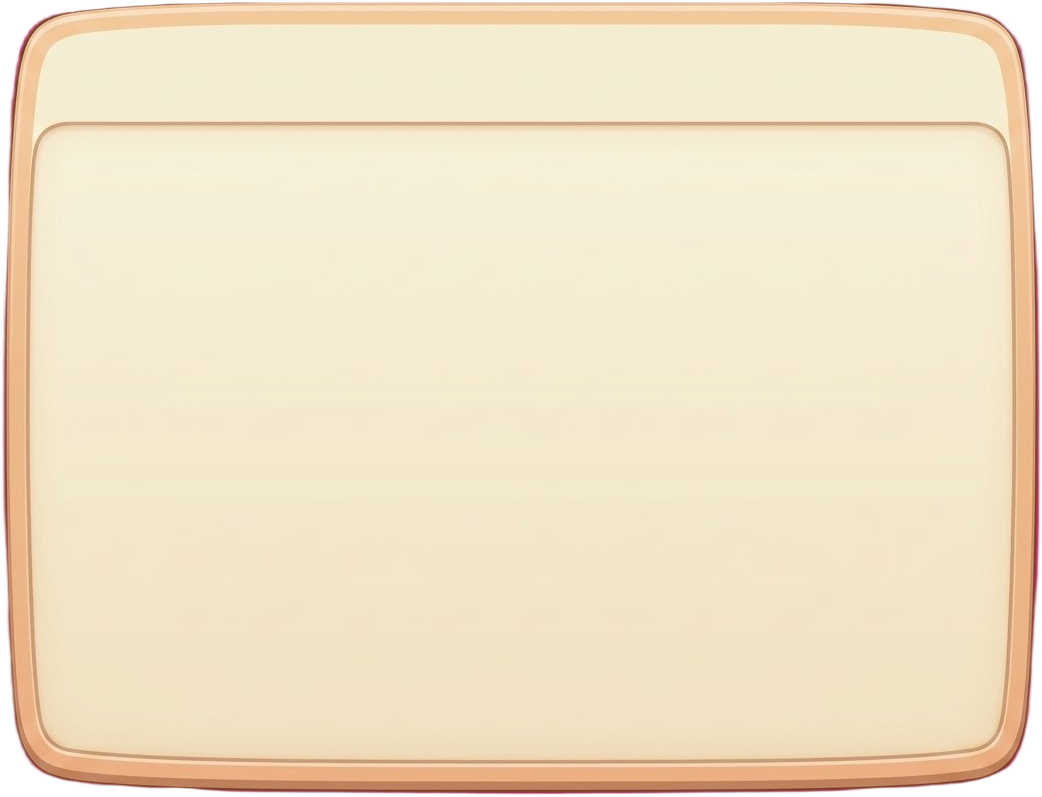
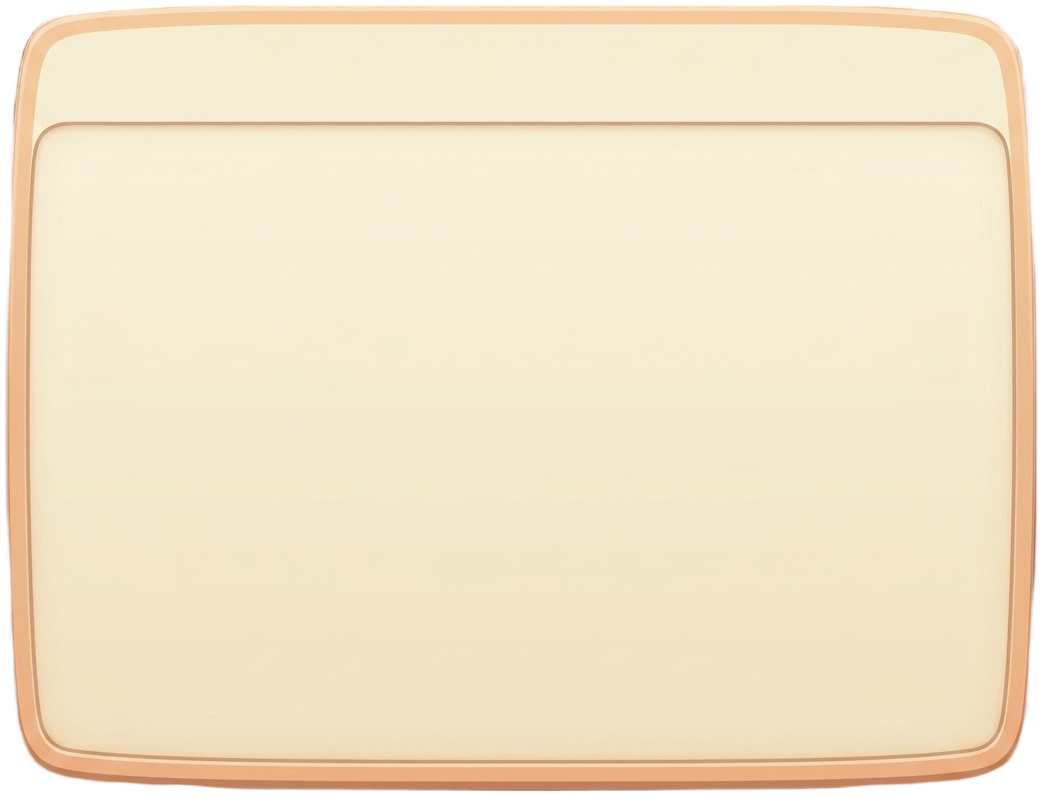
Ночь 2: UI-20 закрыта, задача по контрасту нулей склада

diff --git a/tools/ikonka_rembg.py b/tools/ikonka_rembg.py
@@ -19,7 +19,7 @@ from PIL import Image, ImageFilter
 from rembg import remove, new_session
 
 
-def obrabotat(put, out, sess, razmer, cvet, dolya, obvodka, pole_dolya, kvadrat):
+def obrabotat(put, out, sess, razmer, cvet, dolya, obvodka, pole_dolya, kvadrat, erozia=0):
     im = Image.open(put).convert("RGB")
     # у сети берём только маску: под альфой 0 она обнуляет и цвет, а полости
     # силуэта нужно возвращать исходным цветом
@@ -37,6 +37,11 @@ def obrabotat(put, out, sess, razmer, cvet, dolya, obvodka, pole_dolya, kvadrat)
         holst = holst.resize((razmer, razmer), Image.LANCZOS)
     else:
         holst = rgba
+    if erozia > 0:
+        # сжать альфу на N px: убирает розовый/зелёный ореол JPEG-кромки от фона
+        # генерации (у элементов интерфейса на сплошном фоне заметен как линия)
+        alpha_e = holst.getchannel("A").filter(ImageFilter.MinFilter(erozia * 2 + 1))
+        holst.putalpha(alpha_e)
     if obvodka:
         t = max(1, int(round(holst.width * dolya)))
         alpha = holst.getchannel("A")
@@ -55,6 +60,7 @@ if __name__ == "__main__":
     ap.add_argument("--razmer", type=int, default=512); ap.add_argument("--cvet", default="FBEBBA")
     ap.add_argument("--tolshchina", type=float, default=0.021)
     ap.add_argument("--bez-obvodki", action="store_true"); ap.add_argument("--ne-kvadrat", action="store_true")
+    ap.add_argument("--erozia", type=int, default=0, help="сжать альфу на N px (ореол кромки у элементов интерфейса)")
     ap.add_argument("--pole", type=float, default=0.08); ap.add_argument("--model", default="u2net", help="u2net держит белые части предметов (хлопок), birefnet-general-lite чище по кромке для элементов интерфейса")
     a = ap.parse_args()
     os.makedirs(a.out, exist_ok=True)
@@ -63,4 +69,4 @@ if __name__ == "__main__":
           if f.lower().endswith((".png", ".jpg", ".jpeg"))]
     for f in fs:
         obrabotat(f, os.path.join(a.out, os.path.splitext(os.path.basename(f))[0] + ".png"), sess,
-                  a.razmer, a.cvet, a.tolshchina, not a.bez_obvodki, a.pole, not a.ne_kvadrat)
+                  a.razmer, a.cvet, a.tolshchina, not a.bez_obvodki, a.pole, not a.ne_kvadrat, a.erozia)

diff --git a/loop/ui/OTCHET-nochi-2.md b/loop/ui/OTCHET-nochi-2.md
@@ -13,3 +13,12 @@
 - Ученик: 7 кадров амбара Township в `loop/ui/referensy-sklad/` + `NABLYUDENIYA.md`. Подтверждено: ячеек нет, число голым текстом под иконкой, ёмкость текстовой пилюлей без бара, кнопка апгрейда зелёная компактная, вкладки — пиктограммы без подписей (у нас пока текст: значков категорий нет). Заказчик прислал panel-sklad, pole-sklad, vkladka-aktivnaya — вырезаны, в `Assets/UI/Elementy/`; программисту ушло ТЗ на перестройку (кадр `noch2-sklad-3.png`).
 - Спека тапа по зданию (`wiki/saas/projects/mars-colony/spec-tap-po-zdaniyu.md`): механика уже реализована (VyborZdaniy, KonturZdaniya, ZhivoyInterfeys, BuildingClickTarget) — контур циан 2 px обратным корпусом, плашка процедурный Vizor 52 px. Дыры: блокировка при открытом складе, повторный тап, клэмп у края, анимация, кегль 24. Строка 2 промпта переписана: проверить кликом, довести на элементах заказчика в тёплом языке.
 - План анимации шаттла (`loop/ui/plan-animatsii-shattla.md`, mars-juice): фазы, кривые, пыль, дрожь камеры, триггер, проверка тремя кадрами через `AnimationClip.SampleAnimation` в Edit Mode; два допущения помечены (знак вектора вглубь кадра, перевод 6 px в метры) — проверять тестовым кадром до кода.
+
+## Виток 1, попытка 2 — склад на элементах заказчика (`noch2-sklad-3.png`)
+- Перестроен по референсу амбара: panel-sklad, вкладки, pole-sklad, 17 товаров без ячеек (иконка 84 + число), «Ёмкость: 45 / 50», кнопка «РАСШИРИТЬ» (knopka-a), крест на углу, скрим 0.72 линейный (=40% падения яркости в sRGB-кадре). Все три ряда видны.
+- Метрика: крем в рамке 120,120,1360,740 — 61.1% (порог ≥35) — дошла. Ореол вырезки вокруг поля (645 розовых px) снят эрозией альфы 3 px в `ikonka_rembg --erozia`; после пересборки 0 px.
+- Баг по дороге: ключ кэша `ZalivkaSprite` не включал цвет — правки альфы молча брали старый PNG; исправлен.
+- Инспектор — в работе; ворота закрываются двойной приёмкой.
+- **UI-20 закрыта** двойной приёмкой (метрика 61.1%, инспектор: сломанного рядом нет). Оговорки → `bd` (контраст нулей, выцветание светлых иконок при 0).
+
+## Виток 2 — кликабельность (UI-22, в работе)
